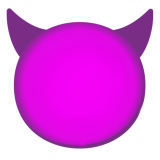
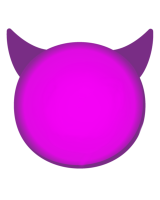
Fixed cowboy issue and added img imports

Changed region(s): [[0.0312, 0.0312, 0.9688, 0.4688], [0.0625, 0.5625, 0.9375, 0.9375]]

diff --git a/src/components/Canvas/Decorations.js b/src/components/Canvas/Decorations.js
@@ -2,8 +2,17 @@ import { Component } from "react";
 import cowboy from '../../images/decorations/cowboy_hat.png';
 import halo from '../../images/decorations/halo.png';
 import hearts from '../../images/decorations/hearts.png';
+import hug from '../../images/decorations/hug.png';
+import mask from '../../images/decorations/mask.png';
+import party from '../../images/decorations/party.png';
+import shush from '../../images/decorations/shush.png';
+import sweat from '../../images/decorations/sweat.png';
+import tear from '../../images/decorations/tear.png';
+import thinking from '../../images/decorations/thinking.png';
+import yawn from '../../images/decorations/yawn.png';
+import zzz from '../../images/decorations/zzz.png';
 
-const decorations = [cowboy, halo, hearts];
+const decorations = [cowboy, halo, hearts, hug, party, mask, shush, sweat, tear, thinking, yawn, zzz];
 
 var index = 0;
 

diff --git a/src/components/Canvas/Eyes.js b/src/components/Canvas/Eyes.js
@@ -21,8 +21,11 @@ import wink from '../../images/eyes/eyes_wink.png';
 import wink2 from '../../images/eyes/eyes_wink2.png';
 import woozy from '../../images/eyes/eyes_woozy.png';
 import zany from '../../images/eyes/eyes_zany.png';
+import stars from '../../images/eyes/stars.png';
+import thinking from '../../images/eyes/thinking.png';
+import sunglasses from '../../images/eyes/eyes_sunglasses.png';
 
-const eyes = [angry, closed, crossed, crying, expressionless, flushed, heart, money, pensive, plain, pleading, rolling, shut, smiling, smirking, weary, wink, wink2, woozy, zany];
+const eyes = [angry, closed, crossed, crying, thinking, stars, expressionless, flushed, heart, money, pensive, sunglasses, plain, pleading, rolling, shut, smiling, smirking, weary, wink, wink2, woozy, zany];
 
 var index = 0;
 

diff --git a/src/components/Canvas/Face.js b/src/components/Canvas/Face.js
@@ -3,8 +3,10 @@ import plain from '../../images/faces/face_plain.png';
 import blush from '../../images/faces/face_blush.png';
 import angry from '../../images/faces/face_angry.png';
 import fearful from '../../images/faces/fearful_face.png';
+import clown from '../../images/faces/clown.png';
+import devil from '../../images/faces/devil.png';
 
-const faces = [plain, blush, angry, fearful];
+const faces = [plain, blush, angry, fearful, clown, devil];
 
 var index = 0;
   
